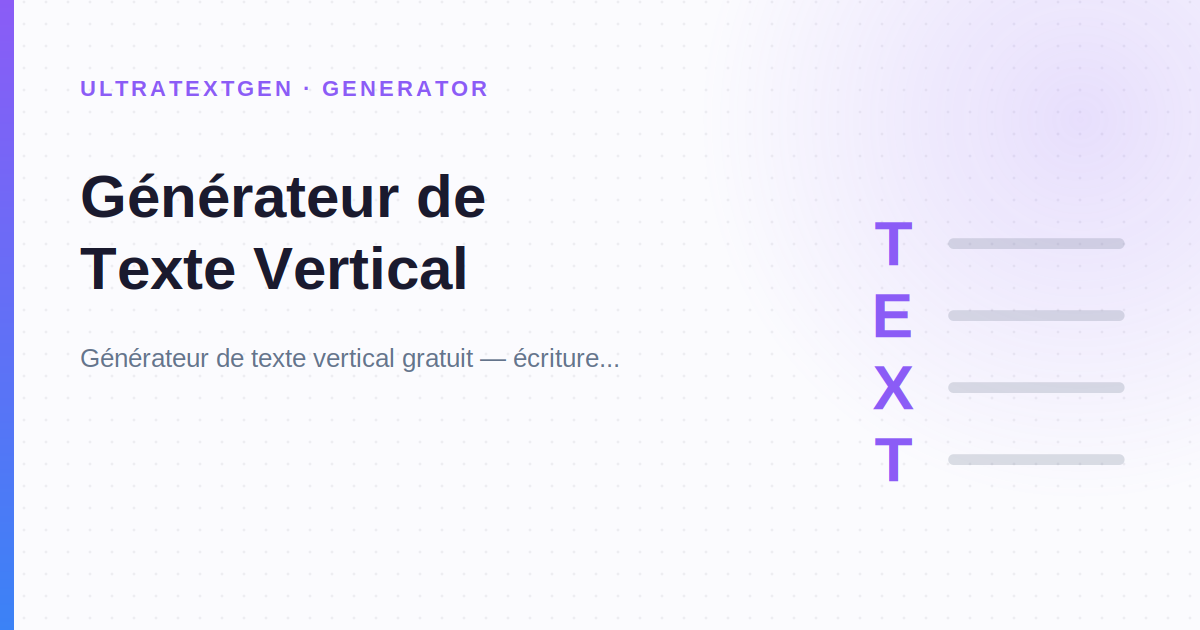
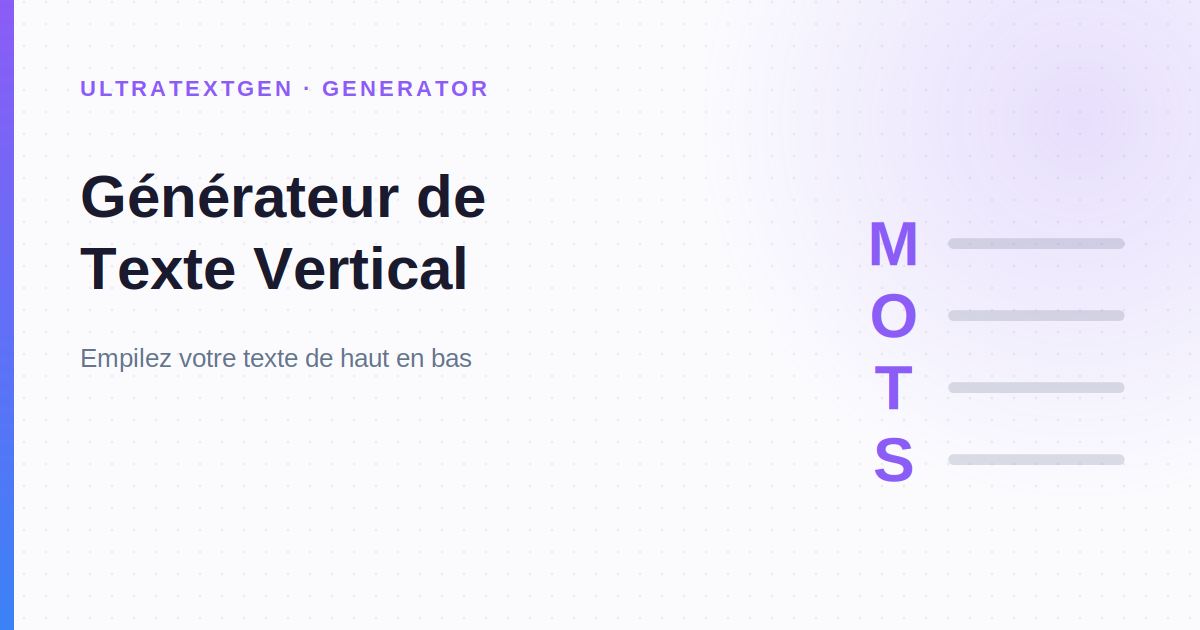
fix(art): French words on the French cards that still showed English
The page art on seven French pages carried English, found by reading the
motif text of every French page's hero SVG (233 pages) and every card title:

- mots-croises and mots-meles (#957) inherited their EN parents' motifs,
  "PRINT/WORD" and "WORDS". m_crossword and m_word_grid now take their
  words as parameters (EN defaults unchanged, byte-identical output), and
  the three new FR printables are registered with French words: MOTS/PORT
  and ECOLE, unaccented as French grids print them.
- fr/petite-ecriture drew " small"; now " petit".
- fr/usecase/vertical-text spelled "TEXT"; now "MOTS" (the motif holds four
  letters, so TEXTE does not fit).
- fr/answers/comment-faire-un-pseudo-vide and nom-utilisateur-ou-nom-affiche
  still pointed at the ENGLISH answers cards, so a share showed an English
  title. They now have their own French cards (generate-locale-art.py).

Claude-Session: https://claude.ai/code/session_01BFruRvJyrv2uDbHMq2EbKV

diff --git a/fr/answers/nom-utilisateur-ou-nom-affiche/index.html b/fr/answers/nom-utilisateur-ou-nom-affiche/index.html
@@ -68,14 +68,14 @@ window.__h82AlnkH6D91__("WyJwdWItODI0MjMyNDE2NDQxMzk0NSIsW251bGwsbnVsbCxudWxsLCJ
   <meta property="og:description" content="Erreur « caractères invalides » en collant une police stylée ? Elle va dans le nom affiché, pas dans le @nom d'utilisateur. La règle, un tableau par plateforme, et les exceptions où le texte stylé ne fonctionne jamais.">
   <meta property="og:url" content="https://ultratextgen.com/fr/answers/nom-utilisateur-ou-nom-affiche/">
   <meta property="og:type" content="article">
-  <meta property="og:image" content="https://ultratextgen.com/assets/og/answers-where-do-fancy-fonts-work-username-vs-display-name.png">
+  <meta property="og:image" content="https://ultratextgen.com/assets/og/fr-answers-nom-utilisateur-ou-nom-affiche.png">
   <meta property="og:image:width" content="1200">
   <meta property="og:image:height" content="630">
   <meta property="og:image:type" content="image/png">
   <meta name="twitter:card" content="summary_large_image">
   <meta name="twitter:title" content="Nom d'Utilisateur ou Nom Affiché — Où Fonctionnent les Polices Stylées ?">
   <meta name="twitter:description" content="Erreur « caractères invalides » en collant une police stylée ? Elle va dans le nom affiché, pas dans le @nom d'utilisateur. La règle et un tableau par plateforme.">
-  <meta name="twitter:image" content="https://ultratextgen.com/assets/og/answers-where-do-fancy-fonts-work-username-vs-display-name.png">
+  <meta name="twitter:image" content="https://ultratextgen.com/assets/og/fr-answers-nom-utilisateur-ou-nom-affiche.png">
 
   <link rel="preconnect" href="https://fonts.googleapis.com">
   <link rel="preconnect" href="https://fonts.gstatic.com" crossorigin>

diff --git a/fr/answers/comment-faire-un-pseudo-vide/index.html b/fr/answers/comment-faire-un-pseudo-vide/index.html
@@ -77,14 +77,14 @@ window.__h82AlnkH6D91__("WyJwdWItODI0MjMyNDE2NDQxMzk0NSIsW251bGwsbnVsbCxudWxsLCJ
   <meta property="og:description" content="Tu veux un pseudo vide ou invisible dans un jeu, sur Discord, Steam ou WhatsApp ? Un espace normal est supprimé, alors tu colles un caractère Unicode invisible à la place. Voici comment faire — et le hic.">
   <meta property="og:url" content="https://ultratextgen.com/fr/answers/comment-faire-un-pseudo-vide/">
   <meta property="og:type" content="article">
-  <meta property="og:image" content="https://ultratextgen.com/assets/og/answers-how-to-make-a-blank-name.png">
+  <meta property="og:image" content="https://ultratextgen.com/assets/og/fr-answers-comment-faire-un-pseudo-vide.png">
   <meta property="og:image:width" content="1200">
   <meta property="og:image:height" content="630">
   <meta property="og:image:type" content="image/png">
   <meta name="twitter:card" content="summary_large_image">
   <meta name="twitter:title" content="Comment Faire un Pseudo Vide (Invisible)">
   <meta name="twitter:description" content="Un espace normal est supprimé, alors tu colles un caractère Unicode invisible à la place. Voici comment faire — et le hic.">
-  <meta name="twitter:image" content="https://ultratextgen.com/assets/og/answers-how-to-make-a-blank-name.png">
+  <meta name="twitter:image" content="https://ultratextgen.com/assets/og/fr-answers-comment-faire-un-pseudo-vide.png">
 
   <link rel="preconnect" href="https://fonts.googleapis.com">
   <link rel="preconnect" href="https://fonts.gstatic.com" crossorigin>

diff --git a/scripts/generate-site-art.py b/scripts/generate-site-art.py
@@ -1251,7 +1251,7 @@ def m_trace_rows(p, sample="Emma"):
     <line x1="70" y1="250" x2="290" y2="250" stroke="{SUB}" stroke-width="3"/>"""
 
 
-def m_word_grid(p, accent=PURPLE):
+def m_word_grid(p, accent=PURPLE, word="WORDS"):
     """A letter grid with one word ringed on the diagonal — the word search maker.
 
     Plain Latin capitals only, so they need no spanned()/_resolve_family() wrapper:
@@ -1259,8 +1259,15 @@ def m_word_grid(p, accent=PURPLE):
     resolver applies to glyphs it does not cover. The ringed diagonal spells the
     found word, which is the one thing that says "word search" rather than
     "grid of letters".
+
+    `word` is the found word, five capitals because the ring is drawn for five
+    cells. A locale page passes a word in its own language: an English word on a
+    French card is English on a French page. Unaccented, as that locale's grids
+    print it (French puzzle grids drop accents).
     """
-    cols = ["W", "O", "R", "D", "S"]
+    if len(word) != 5 or not word.isascii() or not word.isupper():
+        raise ValueError(f"m_word_grid word must be 5 unaccented capitals, got {word!r}")
+    cols = list(word)
     rows = [
         ["F", "K", "T", "M", "R"],
         ["S", "I", "B", "Q", "V"],
@@ -1290,7 +1297,7 @@ def m_word_grid(p, accent=PURPLE):
     return "\n    " + "\n    ".join(out)
 
 
-def m_crossword(p, accent=PURPLE):
+def m_crossword(p, accent=PURPLE, across="PRINT", down="WORD", cross_col=1, cross_row=2):
     """An interlocking crossword corner with numbered squares — the crossword maker.
 
     Two answers crossing on a shared letter is the one thing that distinguishes a
@@ -1299,9 +1306,12 @@ def m_crossword(p, accent=PURPLE):
     leaves the rest out. Plain Latin capitals and digits, so no spanned()/
     _resolve_family() wrapper is needed (Liberation covers them).
     """
-    across = "PRINT"
-    down = "WORD"
-    cross_col, cross_row = 1, 2   # the shared R
+    # `across` and `down` cross where across[cross_col] == down[cross_row] (the
+    # shared R in the English default). A locale page passes words in its own
+    # language, unaccented as its grids print them; checked, because a pair that
+    # does not share the letter draws two answers that do not cross.
+    if across[cross_col] != down[cross_row]:
+        raise ValueError(f"m_crossword: {across!r}[{cross_col}] != {down!r}[{cross_row}]")
     x0, y0, step = 70, 108, 46
     out = []
     for i, ch in enumerate(across):
@@ -2002,7 +2012,7 @@ PAGES = {
   "fr-ecriture-gothique": ("Écriture Gothique", "Lettres gothiques à copier-coller",
         P(m_typo, sample="Goth", ff=SERIF, weight="800", size=80, label="dark et médiévale"), K_CAT),
   "fr-petite-ecriture": ("Petite Écriture", "Petit texte à copier-coller",
-        P(m_typo, sample=" small", size=44, label="petite écriture"), K_CAT),
+        P(m_typo, sample=" petit", size=44, label="petite écriture"), K_CAT),
   "fr-usecase-pseudo-fortnite": ("Pseudo Fortnite Stylé", "Symboles tryhard et pseudos 16 caractères", m_gamepad, K_USE),
   "fr-usecase-pseudo-free-fire": ("Pseudo Free Fire Stylé", "Symboles ombrelle et pseudos 12 caractères", m_gamepad, K_USE),
   "fr-ecriture-aesthetic": ("Écriture Aesthetic", "Lettres et symboles aesthetic à copier",
@@ -2070,7 +2080,7 @@ PAGES = {
   "es-usecase-vertical-text": ("Generador de Texto Vertical", "Apila tu texto de arriba abajo",
         P(m_vertical, letters="TEXT"), K_USE),
   "fr-usecase-vertical-text": ("Générateur de Texte Vertical", "Empilez votre texte de haut en bas",
-        P(m_vertical, letters="TEXT"), K_USE),
+        P(m_vertical, letters="MOTS"), K_USE),
   "id-usecase-vertical-text": ("Generator Teks Vertikal", "Susun tulisan dari atas ke bawah",
         P(m_vertical, letters="TEKS"), K_USE),
   "it-usecase-vertical-text": ("Generatore di Testo Verticale", "Impila il testo dall'alto in basso",
@@ -3131,6 +3141,12 @@ PAGES.update({
 "es-imprimibles-moldes-de-letras": ("Moldes de Letras para Imprimir", "Plantillas huecas A-Z y 0-9 para recortar y pintar", P(m_letter_stencil, letter="M"), K_PRINT),
 "de-zum-ausdrucken-buchstaben-vorlagen": ("Buchstaben zum Ausdrucken", "Hohle Vorlagen A-Z und 0-9 zum Ausschneiden", P(m_letter_stencil, letter="B"), K_PRINT),
 "fr-imprimables-lettres-a-imprimer": ("Lettres à Imprimer et à Découper", "Contours creux A-Z et 0-9 à découper et à colorier", P(m_letter_stencil, letter="L"), K_PRINT),
+# 2026-09-27 FR word puzzles + name colouring. The puzzle motifs carry French
+# words, unaccented as French grids print them; the EN parents' defaults are
+# English words, which is what these cards showed when first generated.
+"fr-imprimables-mots-croises": ("Générateur de Mots Croisés", "Tes mots et définitions, une grille par élève", P(m_crossword, across="MOTS", down="PORT", cross_col=1, cross_row=1), K_PRINT),
+"fr-imprimables-mots-meles": ("Générateur de Mots Mêlés", "Ta liste de mots, une grille par élève", P(m_word_grid, word="ECOLE"), K_PRINT),
+"fr-imprimables-prenom-a-colorier": ("Prénom à Colorier", "Un prénom ou un mot en grand coloriage à imprimer", m_crayons, K_PRINT),
 "pl-do-druku-litery-do-druku": ("Litery do Druku", "Puste kontury A-Z z polskimi znakami i cyfry 0-9", P(m_letter_stencil, letter="Ł"), K_PRINT),
 "pt-imprimiveis-letra-bastao": ("Letra Bastao para Imprimir", "Moldes vazados A-Z e 0-9 para recortar", P(m_letter_stencil, letter="B"), K_PRINT),
 "it-da-stampare-lettere-stampatello": ("Lettere Stampatello da Stampare", "Sagome a contorno vuoto A-Z e 0-9", P(m_letter_stencil, letter="S"), K_PRINT),
